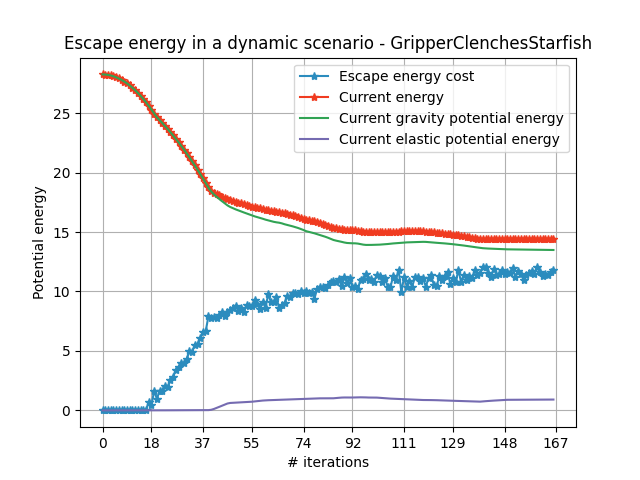
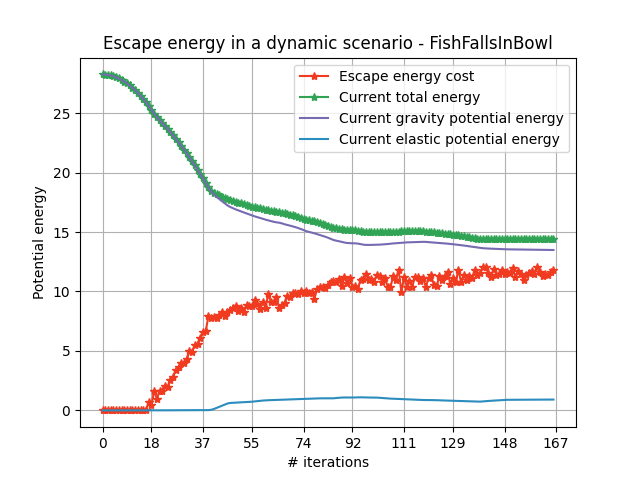
updated plots

diff --git a/src/utils.py b/src/utils.py
@@ -40,7 +40,7 @@ def argument_parser():
     parser = argparse.ArgumentParser(description='3D energy-bounded caging demo program.')
 
     # Add a filename argument
-    parser.add_argument('-c', '--scenario', default='GripperClenchesStarfish', \
+    parser.add_argument('-c', '--scenario', default='HookTrapsRing', \
         choices=['FishFallsInBowl', 'HookTrapsFish', 'HookTrapsRing', 'GripperClenchesStarfish'], \
         help='(Optional) Specify the scenario of demo, defaults to FishFallsInBowl if not given.')
 
@@ -58,11 +58,11 @@ def argument_parser():
         'PotentialAndPathLength'], \
         help='(Optional) Specify the optimization objective, defaults to PathLength if not given.')
 
-    parser.add_argument('-j', '--object', default='Starfish', \
+    parser.add_argument('-j', '--object', default='Ring', \
         choices=['Fish', 'FishWithRing', 'Starfish', 'Ring', 'Humanoid', 'Donut', 'Hook', '3fGripper', 'PlanarRobot', 'PandaArm'], \
         help='(Optional) Specify the object to cage.')
 
-    parser.add_argument('-l', '--obstacle', default='3fGripper', \
+    parser.add_argument('-l', '--obstacle', default='Hook', \
         choices=['Box', 'Hook', '3fGripper', 'Bowl'], \
         help='(Optional) Specify the obstacle that cages the object.')
     

diff --git a/src/test.py b/src/test.py
@@ -482,8 +482,8 @@ import os
 import matplotlib.pyplot as plt
 from visualization import *
 
-folderName = './results/FishFallsInBowl_17-03-2023-01-26-47/'
-plot_escape_energy_from_csv(args, folderName, isArticulatedObject=1)
+folderName = './results/HookTrapsRing_16-03-2023-09-48-19/'
+plot_escape_energy_from_csv(args, folderName, isArticulatedObject=0)
 # _, ax1 = plt.subplots()
 # ax1.plot([1,2,3,np.inf,5,991,3,5,7,8,9], 'r--', label='Escape energy')
 # ax1.set_xlabel('# iterations')

diff --git a/src/visualization.py b/src/visualization.py
@@ -61,7 +61,7 @@ def record_data_loop(sce, energyData, folderName, i):
 
 def plot_escape_energy(energy_data, args, folderName, isArticulatedObject=False):
     # color codes
-    cls = ['#f03b20', '#31a354', '#756bb1', '#2b8cbe'] # r,g,p,b
+    cls = ['#31a354', '#756bb1', '#2b8cbe', '#f03b20'] # b,g,p,r
     
     # unpack the piled datasets
     startEnergySce, startGEnergySce, startEEnergySce, escapeEnergyCostSce = energy_data
